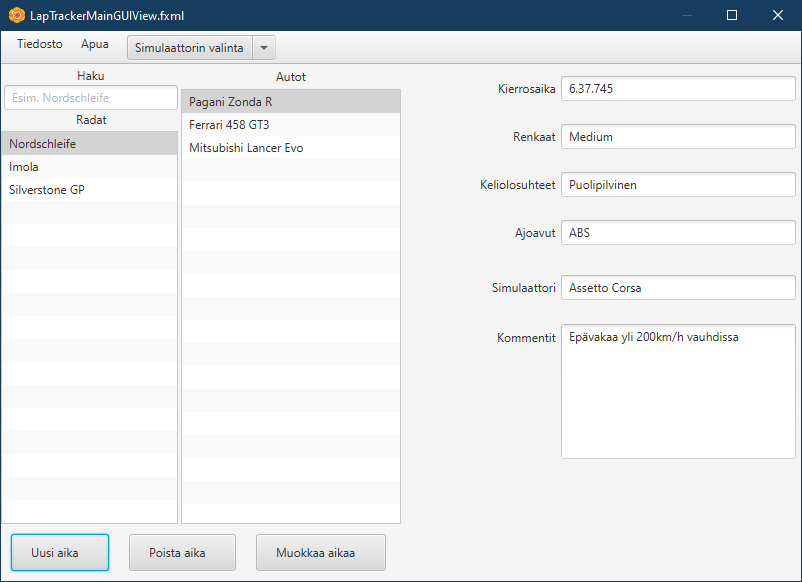
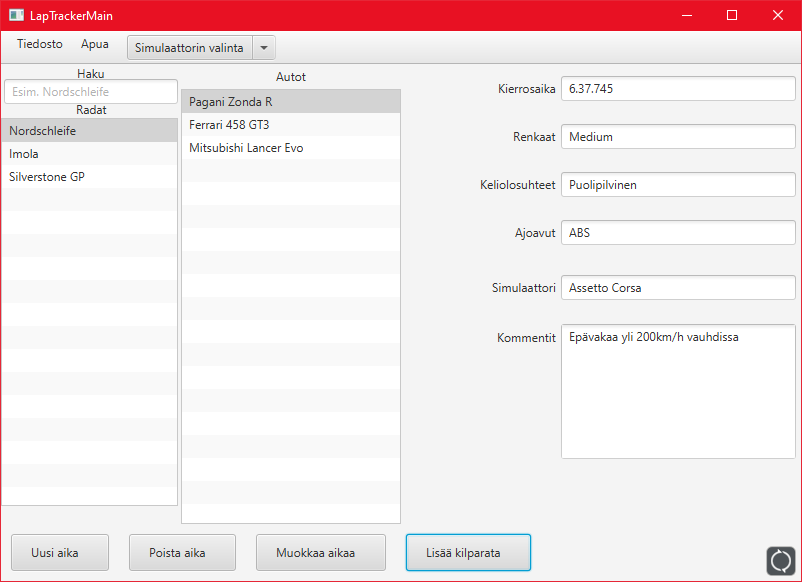
Lisätty virheilmoituksia ja päivitetty havainnekuvia

Changed region(s): [[0.0, 0.0, 1.0, 1.0], [0.0, 0.1237, 0.2182, 0.3402]]

diff --git a/src/fxLapTracker/laptrackermain.css b/src/fxLapTracker/laptrackermain.css
@@ -1,1 +1,9 @@
-/* JavaFX CSS - Leave this comment until you have at least create one rule which uses -fx-Property */
+.virhe {
+	/* @SuppressWarning */
+	-fx-backround-color: red;
+}
+
+.normaali {
+	/* @SuppressWarning */
+	-fx-backround-color: white;
+}

diff --git a/src/fxLapTracker/LapTrackerMainGUIController.java b/src/fxLapTracker/LapTrackerMainGUIController.java
@@ -6,21 +6,21 @@ import java.util.ResourceBundle;
 import fi.jyu.mit.fxgui.Dialogs;
 import fi.jyu.mit.fxgui.ListChooser;
 import fi.jyu.mit.fxgui.ModalController;
+import javafx.scene.control.Label;
 import javafx.scene.control.Menu;
 import javafx.scene.control.TextField;
 import javafx.fxml.FXML;
 import javafx.fxml.Initializable;
 import javafx.scene.control.TextArea;
-import javafx.scene.control.SplitMenuButton;
 
 /**
  * Luokka pääikkunan käyttöliittymän tapahtuminen käsittelyä varten.
  * @author Matruusi
- * @version 1.2.2023
+ * @version 17.2.2023
  *
  */
  public class LapTrackerMainGUIController implements Initializable {
-
+     
     @FXML
     private void buttonLisaaRata() {
         ModalController.showModal(LisaaKilparataGUIController.class.getResource("LisaaKilparata.fxml"), "Kilparata", null, "");
@@ -54,10 +54,32 @@ import javafx.scene.control.SplitMenuButton;
     private Menu menuApua;
 
     @FXML
-    private SplitMenuButton menuSimuvalinta;
+    private Menu menuTiedost;
+    
+    @FXML
+    private void menuSimu1() {
+        Dialogs.showMessageDialog("Vielä ei osata vaihtaa simulaattoreita.");
+    }
 
     @FXML
-    private Menu menuTiedost;
+    private void menuSimu2() {
+        Dialogs.showMessageDialog("Vielä ei osata vaihtaa simulaattoreita.");
+    }
+    
+    @FXML
+    private void menuSimu3() {
+        Dialogs.showMessageDialog("Vielä ei osata vaihtaa simulaattoreita.");
+    }
+    
+    @FXML
+    private void menuSimu4() {
+        Dialogs.showMessageDialog("Vielä ei osata vaihtaa simulaattoreita.");
+    }
+    
+    @FXML
+    private void menuSimu5() {
+        Dialogs.showMessageDialog("Vielä ei osata vaihtaa simulaattoreita.");
+    }
     
     @FXML
     private void menuTallenna() {
@@ -91,7 +113,7 @@ import javafx.scene.control.SplitMenuButton;
     private TextField textKierrosaika;
 
     @FXML
-    private TextField textKilparata;
+    private TextField textHaku;
 
     @FXML
     private TextArea textKommentit;
@@ -106,8 +128,36 @@ import javafx.scene.control.SplitMenuButton;
     public void initialize(URL url, ResourceBundle bundle) {
         // 
     }
+    
+    @FXML
+    private Label labelVirhe;
+    
+    @FXML
+    private String virheTeksti = "Haku ei toimi vielä!";
+     
+    @FXML
+    private void textHaku() {
+        String hakuTeksti = textHaku.getText();
+        if (hakuTeksti.isEmpty()) naytaVirhe(null);
+        else naytaVirhe(virheTeksti);
+    }
 
     // ============================================================================
+    
+    /**
+     * Kertoo käyttäjällä, jos annettu hakutermi ei ole oikeanlainen
+     * @param virhe Käyttäjän kirjoittama teksti
+     */
+    private void naytaVirhe(String virhe) {
+        if (virhe == null || virhe.isEmpty()) {
+            labelVirhe.setText("");
+            labelVirhe.getStyleClass().removeAll("virhe");
+            return;
+        }
+        labelVirhe.setText(virhe);
+        labelVirhe.getStyleClass().add("virhe");
+    }
+    
     
     private void tallenna() {
         Dialogs.showMessageDialog("Tallennus ei vielä toimi.");

diff --git a/src/fxLapTracker/LapTrackerMainMain.java b/src/fxLapTracker/LapTrackerMainMain.java
@@ -9,17 +9,18 @@ import javafx.fxml.FXMLLoader;
 
 /**
  * @author Matruusi
- * @version 1.2.2023
- *
+ * @version 17.2.2023
+ * 
  */
 public class LapTrackerMainMain extends Application {
     @Override
     public void start(Stage primaryStage) {
         try {
-            FXMLLoader ldr = new FXMLLoader(getClass().getResource("LapTrackerMainGUIView.fxml"));
-            final Pane root = ldr.load();
+            final FXMLLoader ldr = new FXMLLoader(getClass().getResource("LapTrackerMainGUIView.fxml"));
+            final Pane root = (Pane)ldr.load();
             //final LapTrackerMainGUIController laptrackermainCtrl = (LapTrackerMainGUIController) ldr.getController();
-            Scene scene = new Scene(root);
+            
+            final Scene scene = new Scene(root);
             scene.getStylesheets().add(getClass().getResource("laptrackermain.css").toExternalForm());
             primaryStage.setScene(scene);
             primaryStage.setTitle("LapTrackerMain");
